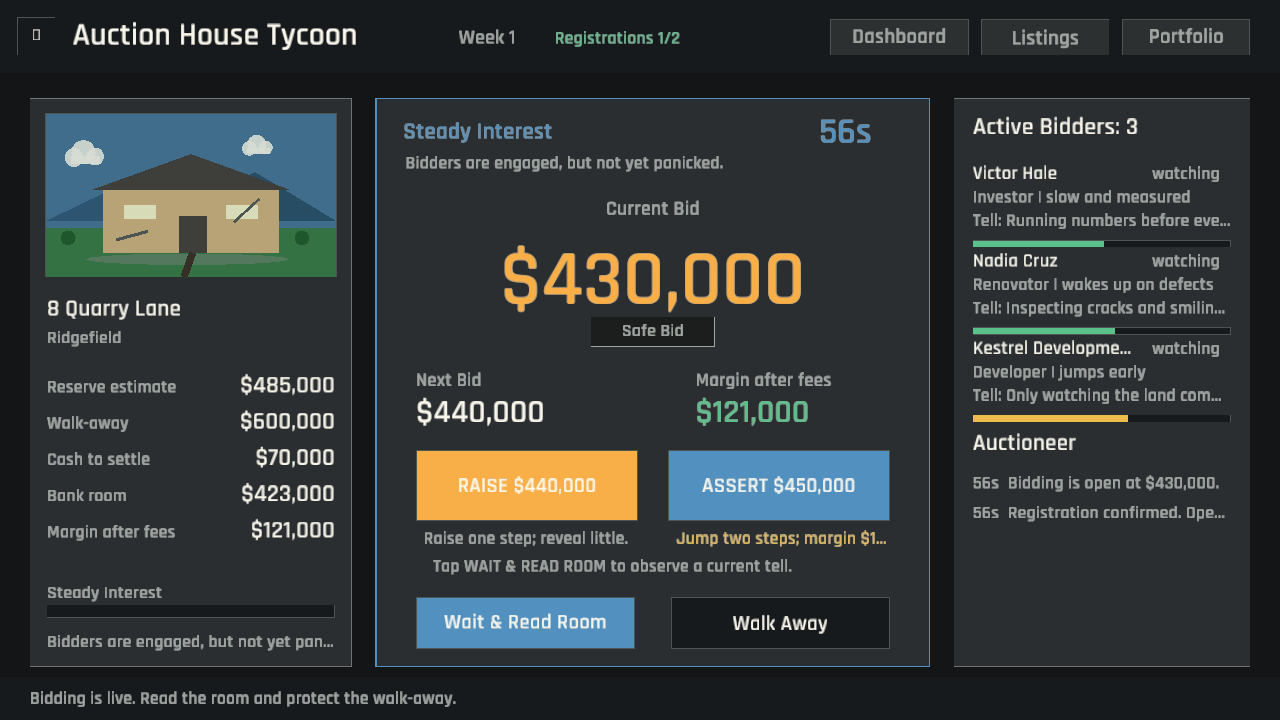
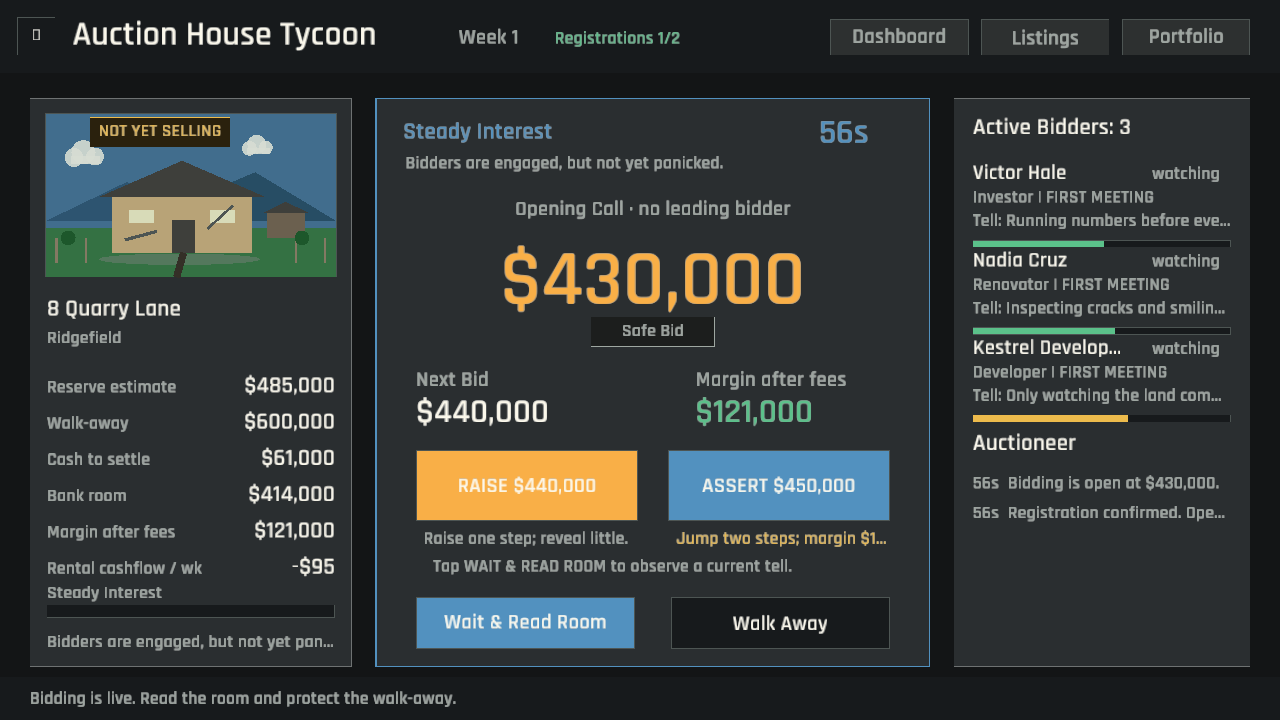
The seller now has a readable position without a visible floor (reserve and vendor stance)
Below-reserve bidding could look like a live sale, and post-auction testing lacked a diligence payoff. The room now states NOT YET SELLING until reserve breaks; full diligence later classifies the vendor as flexible, negotiable, or firm using the same hidden concession logic that resolves the offer. The exact floor remains private. The left auction ledger moved into its own module to restore the source-size gate cleanly.

diff --git a/src/screens/auction.rs b/src/screens/auction.rs
@@ -1,18 +1,19 @@
 use crate::app::App;
-use crate::model::{Auction, AuctionStatus, AuctionTemperature, BidderActor};
+use crate::model::{Auction, AuctionStatus, BidderActor};
 use crate::screens::auction_debrief::draw_purchase_debrief;
 use crate::screens::auction_lobby::{draw_auction_day_lobby, AuctionLobbyAction};
+use crate::screens::auction_property_panel::draw_auction_property_panel;
 use crate::screens::auction_widgets::{
-    bid_verdict, draw_heat_bar, guidance_color, money_color, mood_color,
+    bid_verdict, draw_heat_bar, guidance_color, money_color, mood_color, temperature_color,
 };
 use crate::screens::Screen;
 use crate::sim::auction_events::{
-    accept_post_auction_offer, post_auction_offer, test_vendor_at_passed_in_price,
+    accept_post_auction_offer, post_auction_offer, test_vendor_at_passed_in_price, vendor_stance,
     PostAuctionTestResult,
 };
 use crate::sim::auction_sim::{
     begin_auction_calls, hold_player_position, place_player_bid, place_player_jump_bid,
-    quick_resolve_auction, stop_player_bidding, AUCTION_DURATION_SECONDS,
+    quick_resolve_auction, stop_player_bidding,
 };
 use crate::sim::finance::{finance_snapshot, rental_underwrite, FinanceSnapshot};
 use crate::sim::research::estimate_reserve;
@@ -333,6 +334,22 @@ impl App {
                         crate::ui::BLUE
                     },
                 );
+                label_fit(
+                    if auction.player_research_level >= crate::model::ResearchLevel::FullDiligence {
+                        vendor_stance(auction).label()
+                    } else {
+                        "Seller flexibility is unclear without full diligence."
+                    },
+                    rect.x + 28.0,
+                    rect.y + 300.0,
+                    rect.w - 56.0,
+                    15,
+                    if auction.player_research_level >= crate::model::ResearchLevel::FullDiligence {
+                        POSITIVE
+                    } else {
+                        TEXT_DIM
+                    },
+                );
                 if button(
                     Rect::new(rect.x + 26.0, rect.y + rect.h - 64.0, 148.0, 44.0),
                     &if auction.post_auction_tested {
@@ -368,87 +385,6 @@ impl App {
             }
         }
         None
-    }
-}
-
-fn draw_auction_property_panel(
-    rect: Rect,
-    auction: &Auction,
-    reserve_estimate: i64,
-    cash: i64,
-    bank_room: i64,
-    margin: i64,
-    rental_cashflow: i64,
-) {
-    soft_panel(rect);
-    draw_house_art(
-        Rect::new(rect.x + 14.0, rect.y + 14.0, rect.w - 28.0, 154.0),
-        &auction.property,
-    );
-    label(
-        &auction.property.address,
-        rect.x + 16.0,
-        rect.y + 204.0,
-        22,
-        TEXT_BRIGHT,
-    );
-    label(
-        &auction.property.suburb,
-        rect.x + 16.0,
-        rect.y + 230.0,
-        17,
-        TEXT_DIM,
-    );
-    let rows = [
-        ("Reserve estimate", reserve_estimate),
-        ("Walk-away", auction.player_walkaway_price),
-        ("Cash to settle", cash),
-        ("Bank room", bank_room),
-        ("Margin after fees", margin),
-        ("Rental cashflow / wk", rental_cashflow),
-    ];
-    for (index, (title, value)) in rows.iter().enumerate() {
-        draw_value(
-            title,
-            &format_money(*value),
-            rect.x + 16.0,
-            rect.y + 276.0 + index as f32 * 34.0,
-            rect.w - 32.0,
-        );
-    }
-    let pressure = 100.0 - auction.seconds_remaining / AUCTION_DURATION_SECONDS * 100.0;
-    draw_meter(
-        if auction.has_started {
-            auction.temperature.label()
-        } else {
-            "Terms & Registration"
-        },
-        pressure as i32,
-        Rect::new(rect.x + 16.0, rect.y + rect.h - 58.0, rect.w - 32.0, 12.0),
-        if auction.has_started {
-            temperature_color(auction.temperature)
-        } else {
-            crate::ui::BLUE
-        },
-    );
-    label_fit(
-        if auction.has_started {
-            auction.temperature.description()
-        } else {
-            "The clock waits until you tap START AUCTION CALLS."
-        },
-        rect.x + 16.0,
-        rect.y + rect.h - 18.0,
-        rect.w - 32.0,
-        14,
-        TEXT_DIM,
-    );
-    if auction.on_market_announced {
-        draw_badge(
-            "ON MARKET",
-            Rect::new(rect.x + rect.w - 214.0, rect.y + 18.0, 100.0, 28.0),
-            POSITIVE,
-        );
     }
 }
 
@@ -787,14 +723,5 @@ fn short_log_line(text: &str) -> &str {
         &text[..34]
     } else {
         text
-    }
-}
-
-fn temperature_color(temperature: AuctionTemperature) -> Color {
-    match temperature {
-        AuctionTemperature::QuietRoom => POSITIVE,
-        AuctionTemperature::SteadyInterest => crate::ui::BLUE,
-        AuctionTemperature::HeatingUp => WARNING,
-        AuctionTemperature::FomoSpiral | AuctionTemperature::FinalCall => NEGATIVE,
     }
 }

diff --git a/src/screens/auction_property_panel.rs b/src/screens/auction_property_panel.rs
@@ -1,0 +1,92 @@
+use crate::model::Auction;
+use crate::screens::auction_widgets::temperature_color;
+use crate::sim::auction_sim::AUCTION_DURATION_SECONDS;
+use crate::ui::*;
+use macroquad::prelude::*;
+
+pub(super) fn draw_auction_property_panel(
+    rect: Rect,
+    auction: &Auction,
+    reserve_estimate: i64,
+    cash: i64,
+    bank_room: i64,
+    margin: i64,
+    rental_cashflow: i64,
+) {
+    soft_panel(rect);
+    draw_house_art(
+        Rect::new(rect.x + 14.0, rect.y + 14.0, rect.w - 28.0, 154.0),
+        &auction.property,
+    );
+    label(
+        &auction.property.address,
+        rect.x + 16.0,
+        rect.y + 204.0,
+        22,
+        TEXT_BRIGHT,
+    );
+    label(
+        &auction.property.suburb,
+        rect.x + 16.0,
+        rect.y + 230.0,
+        17,
+        TEXT_DIM,
+    );
+    let rows = [
+        ("Reserve estimate", reserve_estimate),
+        ("Walk-away", auction.player_walkaway_price),
+        ("Cash to settle", cash),
+        ("Bank room", bank_room),
+        ("Margin after fees", margin),
+        ("Rental cashflow / wk", rental_cashflow),
+    ];
+    for (index, (title, value)) in rows.iter().enumerate() {
+        draw_value(
+            title,
+            &format_money(*value),
+            rect.x + 16.0,
+            rect.y + 276.0 + index as f32 * 34.0,
+            rect.w - 32.0,
+        );
+    }
+    let pressure = 100.0 - auction.seconds_remaining / AUCTION_DURATION_SECONDS * 100.0;
+    draw_meter(
+        if auction.has_started {
+            auction.temperature.label()
+        } else {
+            "Terms & Registration"
+        },
+        pressure as i32,
+        Rect::new(rect.x + 16.0, rect.y + rect.h - 58.0, rect.w - 32.0, 12.0),
+        if auction.has_started {
+            temperature_color(auction.temperature)
+        } else {
+            crate::ui::BLUE
+        },
+    );
+    label_fit(
+        if auction.has_started {
+            auction.temperature.description()
+        } else {
+            "The clock waits until you tap START AUCTION CALLS."
+        },
+        rect.x + 16.0,
+        rect.y + rect.h - 18.0,
+        rect.w - 32.0,
+        14,
+        TEXT_DIM,
+    );
+    if auction.on_market_announced {
+        draw_badge(
+            "ON MARKET",
+            Rect::new(rect.x + rect.w - 214.0, rect.y + 18.0, 100.0, 28.0),
+            POSITIVE,
+        );
+    } else if auction.has_started {
+        draw_badge(
+            "NOT YET SELLING",
+            Rect::new(rect.x + rect.w - 246.0, rect.y + 18.0, 132.0, 28.0),
+            WARNING,
+        );
+    }
+}

diff --git a/src/sim/auction_events.rs b/src/sim/auction_events.rs
@@ -78,6 +78,33 @@ pub enum PostAuctionTestResult {
     Rejected(i64),
 }
 
+#[derive(Clone, Copy, Debug, PartialEq, Eq)]
+pub enum VendorStance {
+    Flexible,
+    Negotiable,
+    Firm,
+}
+
+impl VendorStance {
+    pub fn label(self) -> &'static str {
+        match self {
+            VendorStance::Flexible => "Flexible seller · a lower test has support",
+            VendorStance::Negotiable => "Negotiable seller · a modest test may work",
+            VendorStance::Firm => "Firm seller · a low test risks rejection",
+        }
+    }
+}
+
+pub fn vendor_stance(auction: &Auction) -> VendorStance {
+    if auction.property.hidden_defect_risk >= 0.55 || auction.property.buyer_demand <= 50 {
+        VendorStance::Flexible
+    } else if auction.property.buyer_demand <= 70 {
+        VendorStance::Negotiable
+    } else {
+        VendorStance::Firm
+    }
+}
+
 pub fn test_vendor_at_passed_in_price(auction: &mut Auction) -> Option<PostAuctionTestResult> {
     if auction.status != Some(AuctionStatus::PassedIn) || auction.post_auction_tested {
         return None;
@@ -111,13 +138,10 @@ pub fn test_vendor_at_passed_in_price(auction: &mut Auction) -> Option<PostAucti
 }
 
 fn vendor_acceptance_floor(auction: &Auction) -> i64 {
-    let concession =
-        if auction.property.hidden_defect_risk >= 0.55 || auction.property.buyer_demand <= 50 {
-            30_000
-        } else if auction.property.buyer_demand <= 70 {
-            20_000
-        } else {
-            10_000
-        };
+    let concession = match vendor_stance(auction) {
+        VendorStance::Flexible => 30_000,
+        VendorStance::Negotiable => 20_000,
+        VendorStance::Firm => 10_000,
+    };
     auction.reserve_price - concession
 }

diff --git a/src/sim/auction_sim/tests.rs b/src/sim/auction_sim/tests.rs
@@ -367,6 +367,8 @@ fn a_passed_in_buyer_can_test_a_flexible_vendor_once() {
     auction.status = Some(AuctionStatus::PassedIn);
     let tested_price = auction.current_bid;
 
+    assert_eq!(vendor_stance(&auction), VendorStance::Flexible);
+
     assert_eq!(
         test_vendor_at_passed_in_price(&mut auction),
         Some(PostAuctionTestResult::Accepted(tested_price))
@@ -381,6 +383,8 @@ fn a_rejected_passed_in_test_leaves_the_vendor_counter_available() {
     auction.property.buyer_demand = 80;
     auction.current_bid = auction.reserve_price - 30_000;
     auction.status = Some(AuctionStatus::PassedIn);
+
+    assert_eq!(vendor_stance(&auction), VendorStance::Firm);
 
     let counter = post_auction_offer(&auction).unwrap();
     assert_eq!(

diff --git a/src/screens/auction_widgets.rs b/src/screens/auction_widgets.rs
@@ -1,4 +1,4 @@
-use crate::model::BidderMood;
+use crate::model::{AuctionTemperature, BidderMood};
 use crate::ui::*;
 use macroquad::prelude::*;
 
@@ -53,6 +53,15 @@ pub fn mood_color(mood: BidderMood) -> Color {
         BidderMood::Hesitating => WARNING,
         BidderMood::Stretching => NEGATIVE,
         BidderMood::Out => NEGATIVE,
+    }
+}
+
+pub fn temperature_color(temperature: AuctionTemperature) -> Color {
+    match temperature {
+        AuctionTemperature::QuietRoom => POSITIVE,
+        AuctionTemperature::SteadyInterest => crate::ui::BLUE,
+        AuctionTemperature::HeatingUp => WARNING,
+        AuctionTemperature::FomoSpiral | AuctionTemperature::FinalCall => NEGATIVE,
     }
 }
 

diff --git a/src/sim/auction_sim.rs b/src/sim/auction_sim.rs
@@ -11,8 +11,8 @@ use crate::sim::auction_bidders::{
 };
 #[cfg(test)]
 use crate::sim::auction_events::{
-    accept_post_auction_offer, post_auction_offer, test_vendor_at_passed_in_price,
-    PostAuctionTestResult,
+    accept_post_auction_offer, post_auction_offer, test_vendor_at_passed_in_price, vendor_stance,
+    PostAuctionTestResult, VendorStance,
 };
 use crate::sim::auction_events::{announce_on_market, place_vendor_bid, should_place_vendor_bid};
 use crate::sim::valuation::round_down_to_increment;

diff --git a/src/app/capture.rs b/src/app/capture.rs
@@ -167,6 +167,7 @@ impl App {
                         begin_auction_calls(auction);
                         auction.current_bid = auction.reserve_price - auction.bid_increment * 3;
                         auction.status = Some(AuctionStatus::PassedIn);
+                        auction.player_research_level = ResearchLevel::FullDiligence;
                     }
                 }
             }

diff --git a/src/screens/mod.rs b/src/screens/mod.rs
@@ -1,6 +1,7 @@
 pub mod auction;
 mod auction_debrief;
 mod auction_lobby;
+mod auction_property_panel;
 pub mod auction_widgets;
 pub mod briefing;
 pub mod dashboard;

diff --git a/GAME_DESIGN.md b/GAME_DESIGN.md
@@ -38,6 +38,7 @@ The three requirements prevent a single degenerate strategy. Cheap but poor asse
 - One declared vendor bid may move the auction below reserve, but can never buy the property or put it on the market.
 - A pass-in moves to a private vendor counteroffer below reserve; accepting still requires finance and can still violate the player's walk-away.
 - Before meeting that counter, the player may test the vendor once at the passed-in price. Seller flexibility follows demand and disclosed risk, and a rejection leaves the counteroffer available.
+- Below reserve, the live room is explicitly NOT YET SELLING. Full diligence later classifies the passed-in seller as flexible, negotiable, or firm while the precise acceptance floor remains hidden.
 - A hammer win requires a 10% contract deposit plus separately visible acquisition costs; both are included in settlement cash and the deal remains unconditional.
 - ASSERT is theatre with asymmetric consequences: it discourages rational buyers and can provoke emotional ones.
 - First-home buyers stretch near the final call, renovators stretch for damaged upside in emotional rooms, and ego bidders stretch when counter-bidding becomes personal; each exposes a distinct live tell while rational bidders keep their ceiling.

diff --git a/README.md b/README.md
@@ -20,6 +20,7 @@ Winning an auction is not automatically good. The real challenge is knowing what
 - Open in $10,000 rises, then bid in tighter $5,000 steps after the on-market call.
 - Negotiate a visible vendor counteroffer after a pass-in, or leave the private deal untouched.
 - Test the vendor once at the public-room price before deciding whether to meet that counteroffer.
+- See when the reserve is not yet met, and use full diligence to read a passed-in seller as flexible, negotiable, or firm without revealing their exact floor.
 - Build a season record that credits disciplined exits alongside purchases and profitable sales.
 - Close each season with the registrations deliberately passed up, final rent, realised sale profit, and auction record visible together.
 - Pay down individual property loans when freeing bank headroom matters more than keeping cash liquid.
